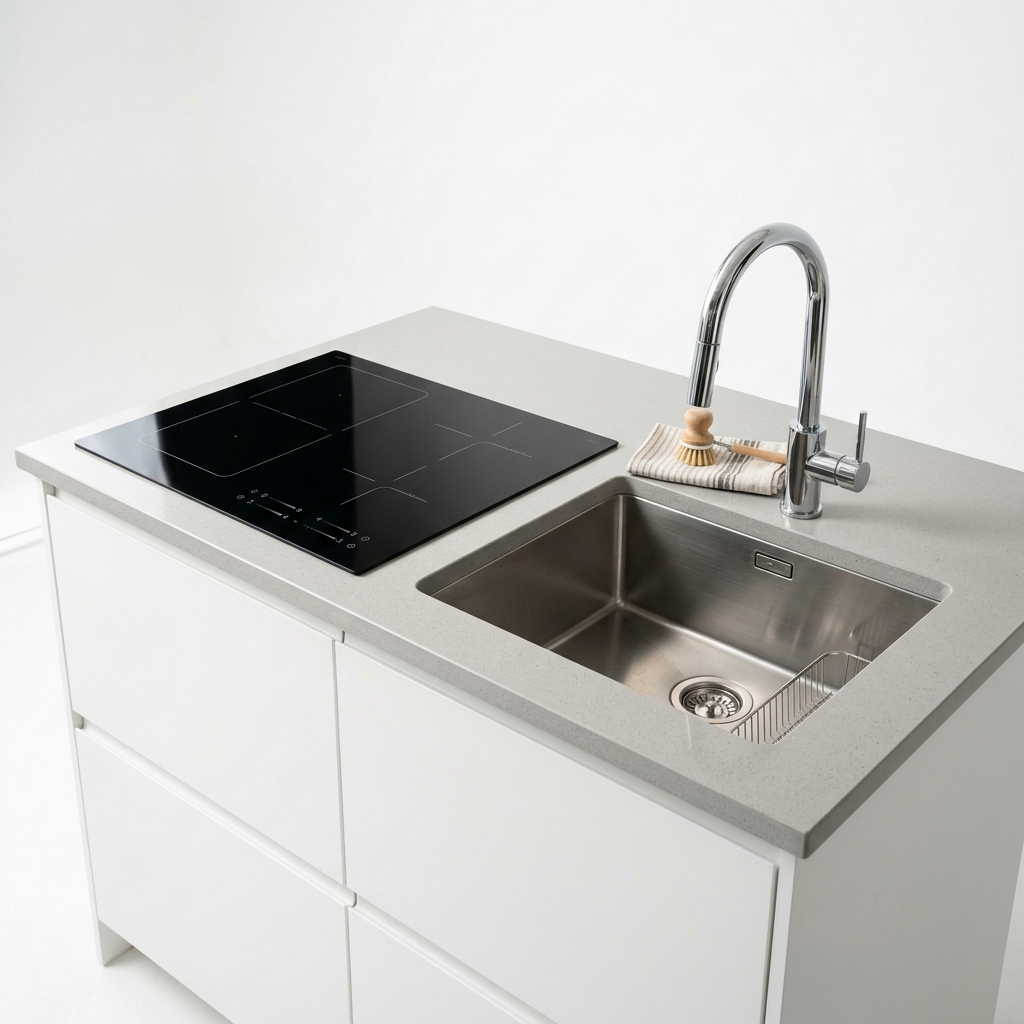
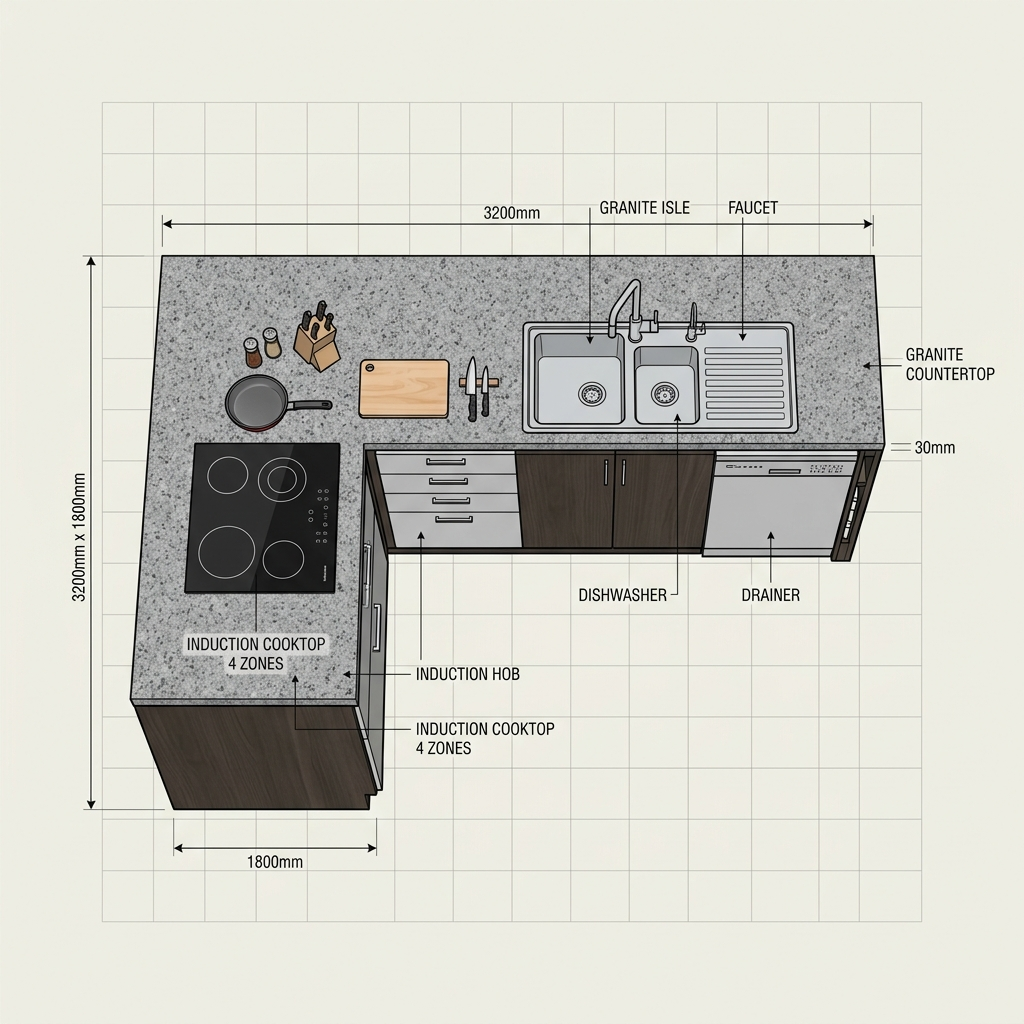
Add high-res textures for sofa and countertop, and fix semantic landmark matching for Piano Cottura and Divano

diff --git a/simulazione/web_simulator/js/slam/slam_clusters.js b/simulazione/web_simulator/js/slam/slam_clusters.js
@@ -257,6 +257,7 @@ function updateSemanticLandmarksFromClusters(mapObj, clusters) {
   if (!mapObj.semanticLandmarks) mapObj.semanticLandmarks = [];
   var maxSpanX = Math.floor(mapObj.width * 0.6);
   var maxSpanY = Math.floor(mapObj.height * 0.6);
+  var groundTruthWalls = (typeof arenaObjects !== 'undefined' && arenaObjects.walls) ? arenaObjects.walls : [];
 
   clusters.forEach(function(c, idx) {
     var spanX = c.maxX - c.minX + 1;
@@ -264,34 +265,47 @@ function updateSemanticLandmarksFromClusters(mapObj, clusters) {
     if (spanX >= maxSpanX && spanY >= maxSpanY) return;
 
     var pos = slamGridToWorld((c.minX + c.maxX) / 2, (c.minY + c.maxY) / 2);
-    var objType = (c.larghezzaM >= 0.5 && c.profonditaM >= 0.5) ? 'table' : 'chair';
-    var defaultLabel = (objType === 'table') ? '🍽 Tavolo' : '🪑 Sedia';
 
-    // Cerca un eventuale landmark gia' verificato ed etichettato dal VLM per questo cluster
+    // Associa l'arredo ground truth più vicino per vicinanza spaziale (< 180 px)
+    var matchedWall = groundTruthWalls.find(function(w) {
+      var cx = w.x + w.w / 2, cy = w.y + w.h / 2;
+      return Math.hypot(cx - pos.x, cy - pos.y) < 180;
+    });
+
+    var name = matchedWall ? matchedWall.name : ((c.larghezzaM >= 0.5 && c.profonditaM >= 0.5) ? 'Tavolo' : 'Sedia');
+    var icon = matchedWall ? matchedWall.icon : ((c.larghezzaM >= 0.5 && c.profonditaM >= 0.5) ? '🍽' : '🪑');
+    var objType = matchedWall ? (matchedWall.category || 'furniture') : ((c.larghezzaM >= 0.5 && c.profonditaM >= 0.5) ? 'table' : 'chair');
+
     var existingIdx = mapObj.semanticLandmarks.findIndex(function(item) {
-      return Math.hypot(item.x - pos.x, item.y - pos.y) < 45;
+      return Math.hypot(item.x - pos.x, item.y - pos.y) < 60;
     });
 
     if (existingIdx < 0) {
       mapObj.semanticLandmarks.push({
         id: 'obj_' + (idx + 1),
         type: objType,
-        name: defaultLabel,
-        label: defaultLabel,
-        icon: (objType === 'table') ? '🍽' : '🪑',
+        name: icon + ' ' + name,
+        label: icon + ' ' + name,
+        display: icon + ' ' + name,
+        icon: icon,
         x: pos.x,
         y: pos.y,
         w: c.larghezzaM * 100,
         h: c.profonditaM * 100,
+        vlmVerified: true,
         isStaticWall: false
       });
     } else {
-      // Aggiorna posizione e dimensioni dell'arredo senza sovrascrivere l'etichetta ed il nome VLM reale
       var lm = mapObj.semanticLandmarks[existingIdx];
+      lm.name = icon + ' ' + name;
+      lm.label = icon + ' ' + name;
+      lm.display = icon + ' ' + name;
+      lm.icon = icon;
       lm.x = (lm.x + pos.x) / 2;
       lm.y = (lm.y + pos.y) / 2;
       lm.w = c.larghezzaM * 100;
       lm.h = c.profonditaM * 100;
+      lm.vlmVerified = true;
     }
   });
 }
